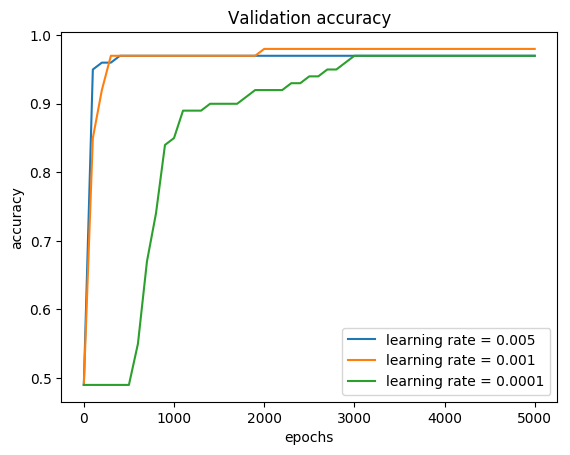
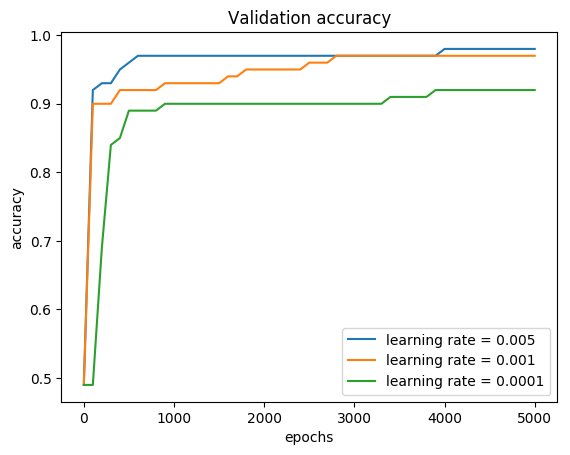
Removed gradient normalization as per prof's instructions, but getting far worse results now

diff --git a/experiments.py b/experiments.py
@@ -10,7 +10,7 @@ from plotting import *
 class Part1(unittest.TestCase):
 
     def setUp(self):
-        self.train_x, self.val_x, self.test_x, self.train_y, self.val_y, self.test_y = loadData()
+        self.train_x, self.val_x, self.test_x, self.train_y, self.val_y, self.test_y = load_data()
 
     def test_3(self):
         alphas = [0.005, 0.001, 0.0001]
@@ -24,9 +24,9 @@ class Part1(unittest.TestCase):
             print('Training with alpha=%g' % alpha)
             w, b = initialize()
             for _ in tqdm(range(0, epochs + 1, save_freq)):
-                metric['Training loss'].append(MSE(w, b, self.train_x, self.train_y, 0.0))
-                metric['Validation loss'].append(MSE(w, b, self.val_x, self.val_y, 0.0))
-                metric['Test loss'].append(MSE(w, b, self.test_x, self.test_y, 0.0))
+                metric['Training loss'].append(mse(w, b, self.train_x, self.train_y, 0.0))
+                metric['Validation loss'].append(mse(w, b, self.val_x, self.val_y, 0.0))
+                metric['Test loss'].append(mse(w, b, self.test_x, self.test_y, 0.0))
                 metric['Training accuracy'].append(accuracy(w, b, self.train_x, self.train_y))
                 metric['Validation accuracy'].append(accuracy(w, b, self.val_x, self.val_y))
                 metric['Test accuracy'].append(accuracy(w, b, self.test_x, self.test_y))
@@ -53,9 +53,9 @@ class Part1(unittest.TestCase):
             print('Training with reg=%g' % reg)
             w, b = initialize()
             for _ in tqdm(range(0, epochs + 1, save_freq)):
-                metric['Training loss'].append(MSE(w, b, self.train_x, self.train_y, 0.0))
-                metric['Validation loss'].append(MSE(w, b, self.val_x, self.val_y, 0.0))
-                metric['Test loss'].append(MSE(w, b, self.test_x, self.test_y, 0.0))
+                metric['Training loss'].append(mse(w, b, self.train_x, self.train_y, reg))
+                metric['Validation loss'].append(mse(w, b, self.val_x, self.val_y, reg))
+                metric['Test loss'].append(mse(w, b, self.test_x, self.test_y, reg))
                 metric['Training accuracy'].append(accuracy(w, b, self.train_x, self.train_y))
                 metric['Validation accuracy'].append(accuracy(w, b, self.val_x, self.val_y))
                 metric['Test accuracy'].append(accuracy(w, b, self.test_x, self.test_y))
@@ -78,9 +78,9 @@ class Part1(unittest.TestCase):
             return w, b
 
         w, b = closed_form_optimal(self.train_x, self.train_y)
-        metrics = {'Training loss': MSE(w, b, self.train_x, self.train_y, 0.0),
-                   'Validation loss': MSE(w, b, self.val_x, self.val_y, 0.0),
-                   'Test loss': MSE(w, b, self.test_x, self.test_y, 0.0),
+        metrics = {'Training loss': mse(w, b, self.train_x, self.train_y, 0.0),
+                   'Validation loss': mse(w, b, self.val_x, self.val_y, 0.0),
+                   'Test loss': mse(w, b, self.test_x, self.test_y, 0.0),
                    'Training accuracy': accuracy(w, b, self.train_x, self.train_y),
                    'Validation accuracy': accuracy(w, b, self.val_x, self.val_y),
                    'Test accuracy': accuracy(w, b, self.test_x, self.test_y)}
@@ -92,7 +92,7 @@ class Part1(unittest.TestCase):
 class Part2(unittest.TestCase):
 
     def setUp(self):
-        self.train_x, self.val_x, self.test_x, self.train_y, self.val_y, self.test_y = loadData()
+        self.train_x, self.val_x, self.test_x, self.train_y, self.val_y, self.test_y = load_data()
 
     def test_2(self):
         alpha = 0.005
@@ -104,12 +104,12 @@ class Part2(unittest.TestCase):
         print('Training with alpha=%g' % alpha)
         w, b = initialize()
         for _ in tqdm(range(0, epochs + 1, save_freq)):
-            metric['Training loss'].append(crossEntropyLoss(w, b, self.train_x, self.train_y, 0.0))
-            metric['Validation loss'].append(crossEntropyLoss(w, b, self.val_x, self.val_y, 0.0))
-            metric['Test loss'].append(crossEntropyLoss(w, b, self.test_x, self.test_y, 0.0))
-            metric['Training accuracy'].append(accuracy(w, b, self.train_x, self.train_y))
-            metric['Validation accuracy'].append(accuracy(w, b, self.val_x, self.val_y))
-            metric['Test accuracy'].append(accuracy(w, b, self.test_x, self.test_y))
+            metric['Training loss'].append(cross_entropy_loss(w, b, self.train_x, self.train_y, 0.1))
+            metric['Validation loss'].append(cross_entropy_loss(w, b, self.val_x, self.val_y, 0.1))
+            metric['Test loss'].append(cross_entropy_loss(w, b, self.test_x, self.test_y, 0.1))
+            metric['Training accuracy'].append(accuracy(w, b, self.train_x, self.train_y, ce=True))
+            metric['Validation accuracy'].append(accuracy(w, b, self.val_x, self.val_y, ce=True))
+            metric['Test accuracy'].append(accuracy(w, b, self.test_x, self.test_y, ce=True))
             w, b = grad_descent(w, b, self.train_x, self.train_y, alpha, iterations, 0.1, 1e-7, 'CE')
         for title in metric:
             line_plot(title, list(range(0, epochs + 1, save_freq)),
@@ -130,12 +130,12 @@ class Part2(unittest.TestCase):
         print('Training with alpha=%g' % alpha)
         w, b = initialize()
         for _ in tqdm(range(0, epochs + 1, save_freq)):
-            metric['Training loss'].append(crossEntropyLoss(w, b, self.train_x, self.train_y, 0.0))
-            metric['Validation loss'].append(crossEntropyLoss(w, b, self.val_x, self.val_y, 0.0))
-            metric['Test loss'].append(crossEntropyLoss(w, b, self.test_x, self.test_y, 0.0))
-            metric['Training accuracy'].append(accuracy(w, b, self.train_x, self.train_y))
-            metric['Validation accuracy'].append(accuracy(w, b, self.val_x, self.val_y))
-            metric['Test accuracy'].append(accuracy(w, b, self.test_x, self.test_y))
+            metric['Training loss'].append(cross_entropy_loss(w, b, self.train_x, self.train_y, 0.0))
+            metric['Validation loss'].append(cross_entropy_loss(w, b, self.val_x, self.val_y, 0.0))
+            metric['Test loss'].append(cross_entropy_loss(w, b, self.test_x, self.test_y, 0.0))
+            metric['Training accuracy'].append(accuracy(w, b, self.train_x, self.train_y, ce=True))
+            metric['Validation accuracy'].append(accuracy(w, b, self.val_x, self.val_y, ce=True))
+            metric['Test accuracy'].append(accuracy(w, b, self.test_x, self.test_y, ce=True))
             w, b = grad_descent(w, b, self.train_x, self.train_y, alpha, iterations, 0.0, 1e-7, 'CE')
         for title in metric:
             line_plot(title, list(range(0, epochs + 1, save_freq)),
@@ -150,7 +150,7 @@ class Part2(unittest.TestCase):
 class Part3(unittest.TestCase):
 
     def setUp(self):
-        self.train_x, self.val_x, self.test_x, self.train_y, self.val_y, self.test_y = loadData()
+        self.train_x, self.val_x, self.test_x, self.train_y, self.val_y, self.test_y = load_data()
 
     def test_2(self):
         alpha = 0.001
@@ -159,7 +159,7 @@ class Part3(unittest.TestCase):
         epochs = 700
         batch_size = 500
         print('Training with alpha=%g' % alpha)
-        x, y_hat, y, w, b, loss, optimize_op, reg = buildGraph(learning_rate=alpha, loss_type='MSE')
+        x, y_hat, y, w, b, loss, optimize_op, reg = build_graph(learning_rate=alpha, loss_type='MSE')
         sess = tf.Session()
         sess.run(tf.global_variables_initializer())
         for _ in tqdm(range(0, epochs + 1)):
@@ -192,7 +192,7 @@ class Part3(unittest.TestCase):
         for batch_size, metric in zip(batch_sizes, metrics):
             print('Training with batch_size=%d' % batch_size)
             tf.reset_default_graph()
-            x, y_hat, y, w, b, loss, optimize_op, reg = buildGraph(learning_rate=0.001, loss_type='MSE')
+            x, y_hat, y, w, b, loss, optimize_op, reg = build_graph(learning_rate=0.001, loss_type='MSE')
             sess = tf.Session()
             sess.run(tf.global_variables_initializer())
             for _ in tqdm(range(0, epochs + 1)):
@@ -227,7 +227,7 @@ class Part3(unittest.TestCase):
         for b1, metric in zip(beta1s, metrics):
             print('Training with beta1=%g' % b1)
             tf.reset_default_graph()
-            x, y_hat, y, w, b, loss, optimize_op, reg = buildGraph(learning_rate=0.001, beta1=b1, loss_type='MSE')
+            x, y_hat, y, w, b, loss, optimize_op, reg = build_graph(learning_rate=0.001, beta1=b1, loss_type='MSE')
             sess = tf.Session()
             sess.run(tf.global_variables_initializer())
             for _ in tqdm(range(0, epochs + 1)):
@@ -263,7 +263,7 @@ class Part3(unittest.TestCase):
         for b2, metric in zip(beta2s, metrics):
             print('Training with beta2=%g' % b2)
             tf.reset_default_graph()
-            x, y_hat, y, w, b, loss, optimize_op, reg = buildGraph(learning_rate=0.001, beta2=b2, loss_type='MSE')
+            x, y_hat, y, w, b, loss, optimize_op, reg = build_graph(learning_rate=0.001, beta2=b2, loss_type='MSE')
             sess = tf.Session()
             sess.run(tf.global_variables_initializer())
             for _ in tqdm(range(0, epochs + 1)):
@@ -299,7 +299,7 @@ class Part3(unittest.TestCase):
         for e, metric in zip(epsilons, metrics):
             print('Training with epsilon=%g' % e)
             tf.reset_default_graph()
-            x, y_hat, y, w, b, loss, optimize_op, reg = buildGraph(learning_rate=0.001, epsilon=e, loss_type='MSE')
+            x, y_hat, y, w, b, loss, optimize_op, reg = build_graph(learning_rate=0.001, epsilon=e, loss_type='MSE')
             sess = tf.Session()
             sess.run(tf.global_variables_initializer())
             for _ in tqdm(range(0, epochs + 1)):
@@ -332,7 +332,7 @@ class Part3(unittest.TestCase):
         epochs = 700
         batch_size = 500
         print('Training with alpha=%g' % alpha)
-        x, y_hat, y, w, b, loss, optimize_op, reg = buildGraph(learning_rate=alpha, loss_type='CE')
+        x, y_hat, y, w, b, loss, optimize_op, reg = build_graph(learning_rate=alpha, loss_type='CE')
         sess = tf.Session()
         sess.run(tf.global_variables_initializer())
         for _ in tqdm(range(0, epochs + 1)):
@@ -366,7 +366,7 @@ class Part3(unittest.TestCase):
         for b1, metric in zip(beta1s, metrics):
             print('Training with beta1=%g' % b1)
             tf.reset_default_graph()
-            x, y_hat, y, w, b, loss, optimize_op, reg = buildGraph(learning_rate=0.001, beta1=b1, loss_type='CE')
+            x, y_hat, y, w, b, loss, optimize_op, reg = build_graph(learning_rate=0.001, beta1=b1, loss_type='CE')
             sess = tf.Session()
             sess.run(tf.global_variables_initializer())
             for _ in tqdm(range(0, epochs + 1)):
@@ -402,7 +402,7 @@ class Part3(unittest.TestCase):
         for b2, metric in zip(beta2s, metrics):
             print('Training with beta2=%g' % b2)
             tf.reset_default_graph()
-            x, y_hat, y, w, b, loss, optimize_op, reg = buildGraph(learning_rate=0.001, beta2=b2, loss_type='CE')
+            x, y_hat, y, w, b, loss, optimize_op, reg = build_graph(learning_rate=0.001, beta2=b2, loss_type='CE')
             sess = tf.Session()
             sess.run(tf.global_variables_initializer())
             for _ in tqdm(range(0, epochs + 1)):
@@ -438,7 +438,7 @@ class Part3(unittest.TestCase):
         for e, metric in zip(epsilons, metrics):
             print('Training with epsilon=%g' % e)
             tf.reset_default_graph()
-            x, y_hat, y, w, b, loss, optimize_op, reg = buildGraph(learning_rate=0.001, epsilon=e, loss_type='CE')
+            x, y_hat, y, w, b, loss, optimize_op, reg = build_graph(learning_rate=0.001, epsilon=e, loss_type='CE')
             sess = tf.Session()
             sess.run(tf.global_variables_initializer())
             for _ in tqdm(range(0, epochs + 1)):

diff --git a/starter.py b/starter.py
@@ -2,7 +2,7 @@ import tensorflow as tf
 import numpy as np
 
 
-def loadData():
+def load_data():
     with np.load('notMNIST.npz') as data:
         Data, Target = data['images'], data['labels']
         posClass = 2
@@ -16,28 +16,28 @@ def loadData():
         randIndx = np.arange(len(Data))
         np.random.shuffle(randIndx)
         Data, Target = Data[randIndx], Target[randIndx]
-        trainData, trainTarget = Data[:3500].reshape((-1, 28 * 28)), Target[:3500].reshape((-1))
-        validData, validTarget = Data[3500:3600].reshape((-1, 28 * 28)), Target[3500:3600].reshape((-1))
-        testData, testTarget = Data[3600:].reshape((-1, 28 * 28)), Target[3600:].reshape((-1))
+        trainData, trainTarget = Data[:3500].reshape((-1, 28 * 28)), Target[:3500].reshape((-1)).astype(np.float32)
+        validData, validTarget = Data[3500:3600].reshape((-1, 28 * 28)), Target[3500:3600].reshape((-1)).astype(np.float32)
+        testData, testTarget = Data[3600:].reshape((-1, 28 * 28)), Target[3600:].reshape((-1)).astype(np.float32)
     return trainData, validData, testData, trainTarget, validTarget, testTarget
 
 
-def MSE(w, b, x, y, reg):
+def mse(w, b, x, y, reg):
     y_hat = (w * x).sum(axis=1) + b
     loss_d = 0.5 * ((y_hat - y) ** 2).mean()
     loss_w = 0.5 * reg * (w ** 2).sum()
     return loss_d + loss_w
 
 
-def gradMSE(w, b, x, y, reg):
+def grad_mse(w, b, x, y, reg):
     y_hat = (w * x).sum(axis=1) + b
     error = y_hat - y
-    w_grad = (x * error.reshape((-1, 1)) + reg).mean(axis=0)
+    w_grad = (x * error.reshape((-1, 1))).mean(axis=0) + reg
     b_grad = error.mean(axis=0)
     return w_grad, b_grad
 
 
-def crossEntropyLoss(w, b, x, y, reg):
+def cross_entropy_loss(w, b, x, y, reg):
     y_hat = (w * x).sum(axis=1) + b
     y_hat = 1 / (1 + np.exp(-y_hat))
     loss_d = -(y * np.log(y_hat) + (1 - y) * np.log(1 - y_hat)).mean()
@@ -45,17 +45,19 @@ def crossEntropyLoss(w, b, x, y, reg):
     return loss_d + loss_w
 
 
-def gradCE(w, b, x, y, reg):
+def grad_ce(w, b, x, y, reg):
     y_hat = (w * x).sum(axis=1) + b
     y_hat = (1 / (1 + np.e ** -y_hat))
-    y, y_hat = y.reshape((-1, 1)), y_hat.reshape((-1, 1))
-    w_grad = ((y_hat - y) * y_hat * (1 - y_hat) * x + reg).mean(axis=0)
-    b_grad = ((y_hat - y) * y_hat * (1 - y_hat)).mean(axis=0)
+    error = y_hat - y
+    w_grad = (x * error.reshape((-1, 1))).mean(axis=0) + reg
+    b_grad = error.mean(axis=0)
     return w_grad, b_grad
 
 
-def accuracy(w, b, x, y):
+def accuracy(w, b, x, y, ce=False):
     y_hat = (w * x).sum(axis=1) + b
+    if ce:
+        y_hat = 1 / (1 + np.exp(-y_hat))
     y_hat_thresh = (y_hat > 0.5).astype(np.uint8)
     return (y_hat_thresh == y).sum() / y.shape[0]
 
@@ -63,16 +65,17 @@ def accuracy(w, b, x, y):
 def grad_descent(w, b, x, y, alpha, iterations, reg, epsilon, loss_type='MSE'):
     for _ in range(iterations):
         if loss_type == 'MSE':
-            w_grad, b_grad = gradMSE(w, b, x, y, reg)
+            w_grad, b_grad = grad_mse(w, b, x, y, reg)
         elif loss_type == 'CE':
-            w_grad, b_grad = gradCE(w, b, x, y, reg)
+            w_grad, b_grad = grad_ce(w, b, x, y, reg)
         else:
             raise ValueError('Unknown lossType:', loss_type)
-        w, b = w - alpha * normalize(w_grad, epsilon), b - alpha * normalize(b_grad, epsilon)
+        if np.linalg.norm(w_grad) > epsilon:
+            w, b = w - alpha * w_grad, b - alpha * b_grad
     return w, b
 
 
-def buildGraph(beta1=0.9, beta2=0.999, epsilon=1e-8, loss_type='MSE', learning_rate=0.001):
+def build_graph(beta1=0.9, beta2=0.999, epsilon=1e-8, loss_type='MSE', learning_rate=0.001):
     tf.set_random_seed(421)
 
     x = tf.placeholder(tf.float32, shape=[None, 28 * 28])
@@ -97,7 +100,3 @@ def buildGraph(beta1=0.9, beta2=0.999, epsilon=1e-8, loss_type='MSE', learning_r
     optimize_op = optimizer.minimize(loss)
 
     return x, y_hat, y, w, b, loss, optimize_op, reg
-
-
-def normalize(x, epsilon=1e-7):
-    return x / (np.linalg.norm(x) + epsilon)
